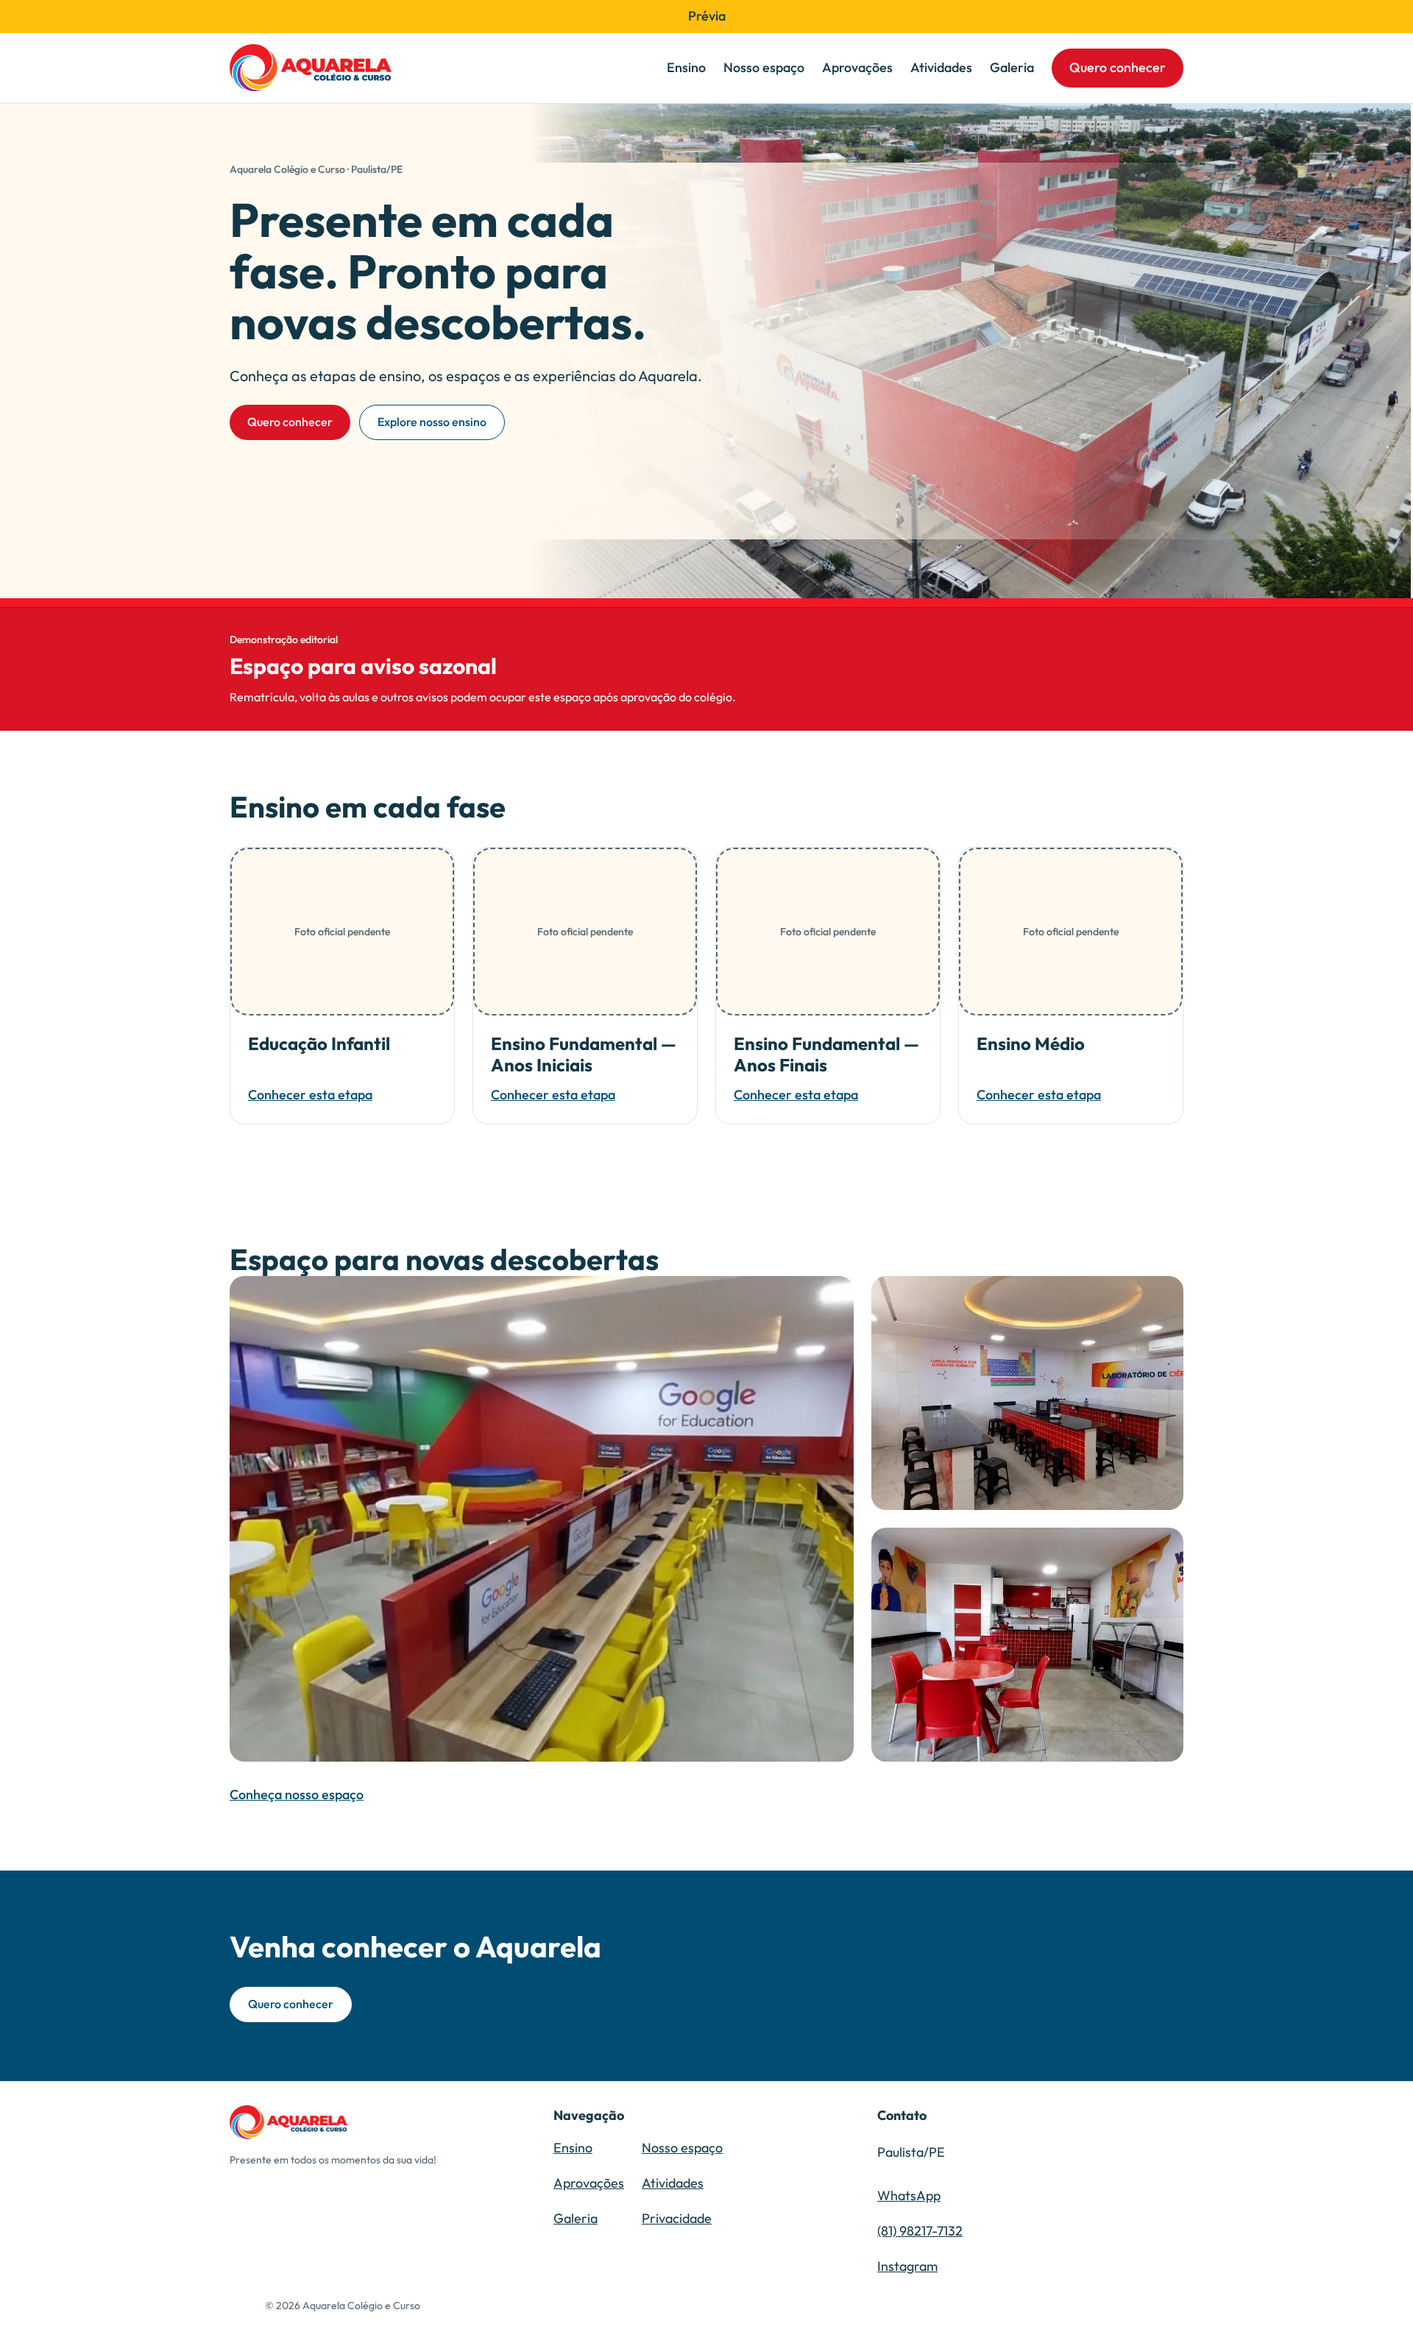
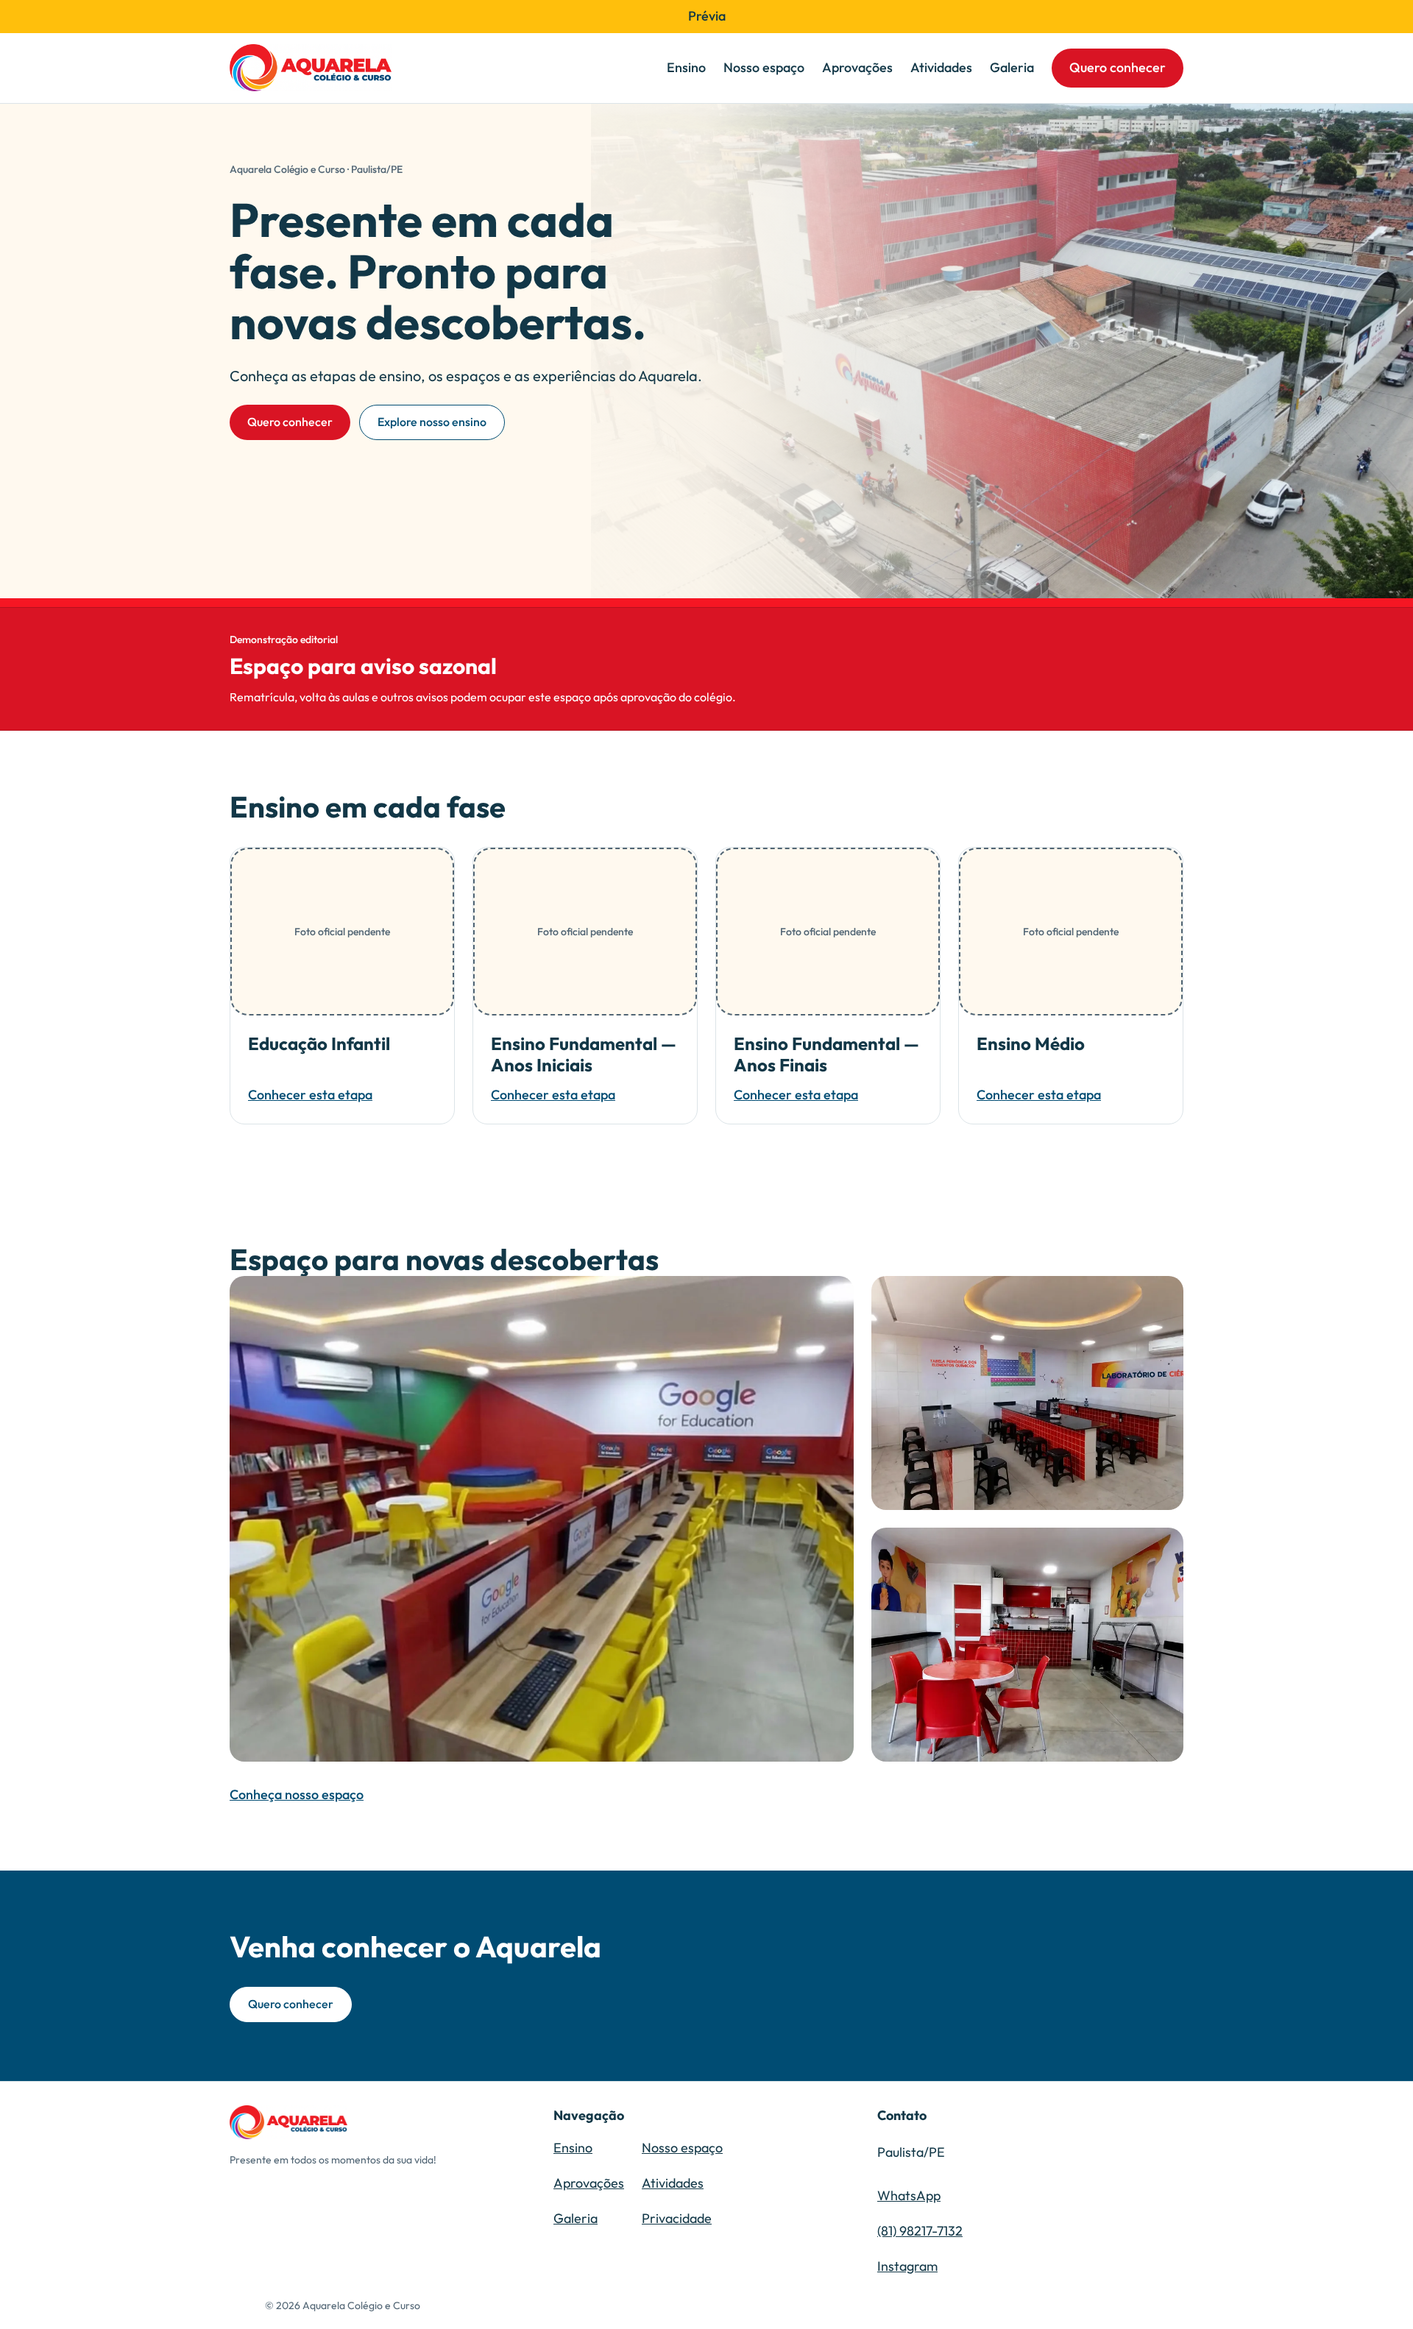
fix(home): align hero fade and smooth wheel response

Changed region(s): [[0.375, 0.031, 1.0, 0.2787]]

diff --git a/src/islands/SmoothScroll.svelte b/src/islands/SmoothScroll.svelte
@@ -11,12 +11,11 @@
     const lenis = new Lenis({
       anchors: true,
       autoRaf: true,
-      duration: 1.1,
-      easing: (time) => Math.min(1, 1.001 - Math.pow(2, -10 * time)),
+      lerp: 0.075,
       respectReducedMotion: true,
       smoothWheel: true,
       syncTouch: false,
-      wheelMultiplier: 0.9,
+      wheelMultiplier: 1,
     });
     const overlays: string[] = [];
     document.documentElement.dataset.smoothScroll = 'active';

diff --git a/playwright.config.ts b/playwright.config.ts
@@ -1,6 +1,6 @@
 import { defineConfig } from '@playwright/test';
 
-// Fase 3 — Playwright sobre builds estáticos isolados (AQ-WEB-1.1.6).
+// Fase 3 — Playwright sobre builds estáticos isolados (AQ-WEB-1.1.7).
 // Nunca usa os HTMLs do `dist/` principal: os builds e2e vão para
 // subdiretórios isolados `dist/e2e-public` e `dist/e2e-preview`
 // (cobertos pelo ignore de `dist/` no tsconfig/eslint/gitignore).

diff --git a/design/design-spec.md b/design/design-spec.md
@@ -1,6 +1,6 @@
 # Contrato de implementação — Aquarela
 
-**Contrato AQ-WEB-1.1.6 · revisado em 27/09/2026.**
+**Contrato AQ-WEB-1.1.7 · revisado em 24/10/2026.**
 
 “Congelado” significa baseline normativa para implementar, não aprovação dos dados escolares nem validação de um site pronto. Alterações de escopo ou aparência exigem revisão explícita deste contrato; conteúdo factual pode ser completado conforme o modelo de publicação, sem redesenhar a interface.
 
@@ -64,7 +64,7 @@ Escala de espaços, em px: `--space-1:4`, `--space-2:8`, `--space-3:12`, `--spac
 
 Raios: `--radius-control:12px`, `--radius-card:20px`, `--radius-media:24px`, `--radius-pill:999px`. Seções abertas não têm raio nem sombra. Card tem borda de 1 px e nenhuma sombra padrão. Header após scroll e card de navegação no hover podem usar `0 4px 16px rgb(18 55 71 / 0.10)`. Menu/lightbox são camadas sobrepostas, não cards decorativos.
 
-Movimento: cores/sombra em 160 ms, abertura de overlay em 200 ms, easing `ease-out`. Não animar a altura de conteúdo textual. O POC aprovado usa Lenis em desktop com ponteiro não-coarse, habilitado por padrão e desligável no build com `ENABLE_SMOOTH_SCROLL=false`; usa duração de 1,1 s com easing exponencial, `wheelMultiplier:0.9`, `respectReducedMotion:true`, `syncTouch:false`, `anchors:true` e RAF automático. Em `prefers-reduced-motion: reduce` ou ponteiro coarse, preserva o scroll nativo. Menu e lightbox chamam `stop()` enquanto qualquer overlay estiver aberto e `start()` quando todos fecharem; listeners e instância são destruídos no cleanup. Âncoras, skip link, histórico, foco e body locking permanecem nativos/inalterados. Nada de autoplay, parallax, scroll-jacking, counters, skeleton permanente, reveal ou entrada que esconda conteúdo até JavaScript executar.
+Movimento: cores/sombra em 160 ms, abertura de overlay em 200 ms, easing `ease-out`. Não animar a altura de conteúdo textual. O POC aprovado usa Lenis em desktop com ponteiro não-coarse, habilitado por padrão e desligável no build com `ENABLE_SMOOTH_SCROLL=false`; usa interpolação amortecida `lerp:0.075`, sem duração fixa, `wheelMultiplier:1`, `respectReducedMotion:true`, `syncTouch:false`, `anchors:true` e RAF automático. Em `prefers-reduced-motion: reduce` ou ponteiro coarse, preserva o scroll nativo. Menu e lightbox chamam `stop()` enquanto qualquer overlay estiver aberto e `start()` quando todos fecharem; listeners e instância são destruídos no cleanup. Âncoras, skip link, histórico, foco e body locking permanecem nativos/inalterados. Nada de autoplay, parallax, scroll-jacking, counters, skeleton permanente, reveal ou entrada que esconda conteúdo até JavaScript executar.
 
 ## 5. Mídia e composição
 
@@ -175,3 +175,12 @@ histórico.
 O HeroHome desktop preserva a proporção 16:9 e o enquadramento completo da
 escola à direita. O Lenis recebe duração e easing explícitos para tornar a
 interpolação perceptível sem alterar os fallbacks de acessibilidade.
+
+### Revisão AQ-WEB-1.1.7 — 24/10/2026
+
+Correção autorizada do Hero: um único degradê paper cobre toda a altura da
+fotografia, sem máscara adicional ou bordas horizontais.
+No desktop, a foto é deslocada 80 px para a direita, centralizando a escola
+na área revelada pelo degradê.
+Lenis passa a usar amortecimento contínuo por frame, sem reiniciar uma duração fixa a cada evento
+da roda; preserva a distância original do gesto e os guards existentes.

diff --git a/README.md b/README.md
@@ -20,7 +20,7 @@ Pré-requisitos: Node.js >=22 e pnpm 11.3. Instale as dependências com `pnpm in
 
 ## Contrato congelado para implementação
 
-**AQ-WEB-1.1.6**, revisado em 27/09/2026. Começar por estes cinco arquivos, nesta ordem:
+**AQ-WEB-1.1.7**, revisado em 24/10/2026. Começar por estes cinco arquivos, nesta ordem:
 
 1. [design/design-spec.md](./design/design-spec.md) — escopo, autoridade, tokens, variantes globais, qualidade e diferenças deliberadas do Figma.
 2. [design/routes.md](./design/routes.md) — rotas, ordem de seções, copy funcional e destinos de todas as ações.
@@ -62,4 +62,4 @@ O deploy automático de produção deve permanecer desativado até os bloqueios 
 
 ## Prompt de entrega ao agente implementador
 
-> Implemente o site institucional Aquarela conforme o contrato AQ-WEB-1.1.6 nos cinco arquivos de `design/`. Leia todos antes de programar e verifique `design-contract.sha256`. O contrato é a fonte normativa; DESIGN.md é pesquisa histórica e o Figma é uma referência visual parcial. Preserve as divergências intencionais especificadas. Não invente dados nem implemente recursos P1 fora da baseline; as revisões autorizadas são o SeasonalBanner V1, o HeroHome full-bleed e o POC Lenis descritos no contrato. Use os modelos e estados de preview/publicação previstos. Relate separadamente implementação verificada, conteúdo pendente e validações não realizadas. Não publique automaticamente.
+> Implemente o site institucional Aquarela conforme o contrato AQ-WEB-1.1.7 nos cinco arquivos de `design/`. Leia todos antes de programar e verifique `design-contract.sha256`. O contrato é a fonte normativa; DESIGN.md é pesquisa histórica e o Figma é uma referência visual parcial. Preserve as divergências intencionais especificadas. Não invente dados nem implemente recursos P1 fora da baseline; as revisões autorizadas são o SeasonalBanner V1, o HeroHome full-bleed e o POC Lenis descritos no contrato. Use os modelos e estados de preview/publicação previstos. Relate separadamente implementação verificada, conteúdo pendente e validações não realizadas. Não publique automaticamente.

diff --git a/.opencode/agents/luna-lead.md b/.opencode/agents/luna-lead.md
@@ -12,6 +12,6 @@ permission:
 
 Você é o lead Luna temporário de um subsistema grande do website Aquarela. Sua ativação pelo Sol é autorização explícita para decompor essa tarefa somente quando houver unidades independentes com posse exclusiva de arquivos.
 
-Antes de agir, leia `AGENTS.md` por completo e execute `sha256sum -c design-contract.sha256`. O contrato AQ-WEB-1.1.6 em `design/` é normativo. Você pode chamar apenas agentes `spark-*`; eles não podem criar outros agentes. Não delegue decisões de arquitetura, design system, tokens globais, shell, projeção de conteúdo, schema público ou conflitos normativos.
+Antes de agir, leia `AGENTS.md` por completo e execute `sha256sum -c design-contract.sha256`. O contrato AQ-WEB-1.1.7 em `design/` é normativo. Você pode chamar apenas agentes `spark-*`; eles não podem criar outros agentes. Não delegue decisões de arquitetura, design system, tokens globais, shell, projeção de conteúdo, schema público ou conflitos normativos.
 
 Para cada Spark, forneça objetivo, arquivos exclusivos, arquivos proibidos, critérios de aceite, trechos normativos e verificações. Nunca atribua o mesmo arquivo a dois agentes. Integre e verifique o trabalho no seu escopo. Você pode criar somente commits locais incrementais conforme `AGENTS.md` §5.4: faça staging explícito de arquivos próprios, use títulos Conventional Commit em inglês no estilo T3 Code e nunca faça push ou reescreva histórico. Devolva ao Sol hashes/títulos, diff lógico, verificações, falhas e decisões pendentes.

diff --git a/.opencode/agents/spark-audit.md b/.opencode/agents/spark-audit.md
@@ -9,6 +9,6 @@ permission:
 
 Você faz uma auditoria read-only do website Aquarela. Não edita arquivos e não cria subagentes.
 
-Leia `AGENTS.md` por completo, verifique `sha256sum -c design-contract.sha256` e confronte o código com AQ-WEB-1.1.6. Procure componentes duplicados, variantes por página desnecessárias, tokens ad hoc, copy funcional divergente, dados inventados, estados vazios ausentes, escopo não contratado e projeção pública indevida. Não faça mutações git.
+Leia `AGENTS.md` por completo, verifique `sha256sum -c design-contract.sha256` e confronte o código com AQ-WEB-1.1.7. Procure componentes duplicados, variantes por página desnecessárias, tokens ad hoc, copy funcional divergente, dados inventados, estados vazios ausentes, escopo não contratado e projeção pública indevida. Não faça mutações git.
 
 Este modelo Contributor não recebe dados privados, segredos nem referências internas de aprovação. Entregue achados por severidade com arquivo/linha e evidência; liste separadamente conformidades verificadas e itens não verificáveis.

diff --git a/.opencode/agents/luna-builder.md b/.opencode/agents/luna-builder.md
@@ -8,7 +8,7 @@ permission:
 
 Você é o implementador Luna do website Aquarela. Trabalha diretamente para o lead GPT-5.6 Sol no Codex e não cria subagentes.
 
-Antes de agir, leia `AGENTS.md` por completo, execute `sha256sum -c design-contract.sha256` e inspecione apenas o contexto necessário. O contrato AQ-WEB-1.1.6 em `design/` é normativo. Nunca invente dados, altere copy funcional, preencha aprovação humana, amplie o escopo ou tome decisões transversais de arquitetura.
+Antes de agir, leia `AGENTS.md` por completo, execute `sha256sum -c design-contract.sha256` e inspecione apenas o contexto necessário. O contrato AQ-WEB-1.1.7 em `design/` é normativo. Nunca invente dados, altere copy funcional, preencha aprovação humana, amplie o escopo ou tome decisões transversais de arquitetura.
 
 Edite somente os arquivos cuja posse foi dada no prompt. Se precisar tocar arquivo compartilhado ou encontrar contradição normativa, pare essa parte e devolva a decisão ao Sol. Não faça mutações git.
 

diff --git a/qa/phase-4/README.md b/qa/phase-4/README.md
@@ -2,6 +2,14 @@
 
 Lote de integração do POC Lenis e da composição revisada do HeroHome.
 
+Atualização de 24/10/2026 (AQ-WEB-1.1.7): removida a máscara duplicada da
+fotografia; o overlay cobre toda a altura do Hero, eliminando as bordas
+horizontais. Foto desktop deslocada 80 px para a direita. Lenis usa `lerp:0.075`
+sem duração fixa e preserva a distância do gesto (`wheelMultiplier:1`).
+Verificados: tipos, lint, 72 testes unitários, conteúdo e 148 E2E aprovados
+(38 ignorados por modo). A inspeção visual local confirma o fade contínuo;
+a sensação em hardware real do usuário ainda depende da avaliação dele.
+
 ## 1. Objetivo e baseline
 
 - Objetivo: consolidar o relatório da Fase 4 (integração, ciclo completo e revisão final) a partir das evidências confirmadas pelo lead.

diff --git a/AGENTS.md b/AGENTS.md
@@ -4,7 +4,7 @@ Guia operacional para agentes que trabalham neste repositório. Lido antes de qu
 
 ## 1. Autoridade normativa
 
-A fonte normativa é o **contrato AQ-WEB-1.1.6** (referido pelo usuário como "contrato da Astra" — Astra é o modelo autor do design), revisado em 27/09/2026, nos cinco arquivos de `design/`. Ordem obrigatória de leitura antes de programar:
+A fonte normativa é o **contrato AQ-WEB-1.1.7** (referido pelo usuário como "contrato da Astra" — Astra é o modelo autor do design), revisado em 24/10/2026, nos cinco arquivos de `design/`. Ordem obrigatória de leitura antes de programar:
 
 1. `design/design-spec.md` — escopo, tokens, variantes globais, qualidade.
 2. `design/routes.md` — rotas, ordem de seções, copy funcional, destinos.

diff --git a/design/components.md b/design/components.md
@@ -1,6 +1,6 @@
 # Contrato de componentes
 
-**AQ-WEB-1.1.6** · Normativo. Tokens em [design-spec.md](./design-spec.md), geometria em [responsive.md](./responsive.md), dados em [content-model.md](./content-model.md).
+**AQ-WEB-1.1.7** · Normativo. Tokens em [design-spec.md](./design-spec.md), geometria em [responsive.md](./responsive.md), dados em [content-model.md](./content-model.md).
 
 Os nomes abaixo identificam responsabilidades; podem ser adaptados ao padrão de nomes da stack, mantendo uma correspondência no relatório de entrega. Reusar componentes entre rotas. Não criar variantes por página quando a diferença for apenas conteúdo.
 

diff --git a/docs/agent-architecture.md b/docs/agent-architecture.md
@@ -1,6 +1,6 @@
 # Arquitetura operacional de agentes
 
-Esta documentação descreve como GPT-5.6 Sol no Codex delega implementação e auditoria para Luna no Codex ou OpenCode Go e para Spark no OpenCode Go. Ela não altera o contrato visual AQ-WEB-1.1.6.
+Esta documentação descreve como GPT-5.6 Sol no Codex delega implementação e auditoria para Luna no Codex ou OpenCode Go e para Spark no OpenCode Go. Ela não altera o contrato visual AQ-WEB-1.1.7.
 
 ## Responsabilidades
 

diff --git a/design/content-model.md b/design/content-model.md
@@ -1,6 +1,6 @@
 # Modelo de conteúdo e publicação
 
-**AQ-WEB-1.1.6** · Autoridade para dados e estados de ausência. Contrato de formato, não implementação do armazenamento. Usar objetos tipados ou validação equivalente na stack escolhida.
+**AQ-WEB-1.1.7** · Autoridade para dados e estados de ausência. Contrato de formato, não implementação do armazenamento. Usar objetos tipados ou validação equivalente na stack escolhida.
 
 ## D01 — Evidência e estados
 
